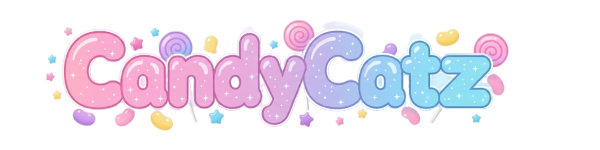
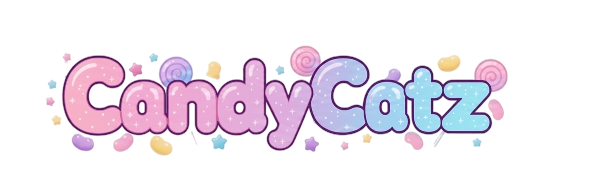
added new design suggestions

diff --git a/src/components/carousel.ts b/src/components/carousel.ts
@@ -18,12 +18,12 @@ export const renderCarousel = function () {
       </div>
       <button class="carousel-control-prev" type="button" data-bs-target="#carouselExampleAutoplaying"
         data-bs-slide="prev">
-        <span class="carousel-control-prev-icon" aria-hidden="true"></span>
+        <span aria-hidden="true"></span>
         <span class="visually-hidden">Previous</span>
       </button>
       <button class="carousel-control-next" type="button" data-bs-target="#carouselExampleAutoplaying"
         data-bs-slide="next">
-        <span class="carousel-control-next-icon" aria-hidden="true"></span>
+        <span aria-hidden="true"></span>
         <span class="visually-hidden">Next</span>
       </button>
     </div>`;

diff --git a/src/assets/scss/app.scss b/src/assets/scss/app.scss
@@ -3,7 +3,6 @@ $bg: #FFFCEF;
 $card-body: #FFFDF5;
 $btn-candy-pink: #f472b6;
 $btn-candy-purple: #c084fc;
-$navbar-bg: #f4e6ff;
 $accent: #F38CB9;
 $accent-light: #ffa1ec;
 $pink: #ff69b4;
@@ -25,7 +24,7 @@ $button-font: "Jersey 15", sans-serif;
 
 
 body {
-    padding-top: 105px;
+    padding-top: 75px;
     box-sizing: border-box;
     font-family: "Poppins", sans-serif;
     background-color: $bg;
@@ -72,8 +71,9 @@ h5 {
 }
 }
 
-.navbar {
-  background: $navbar-bg;
+.navbar-grad {
+  background: linear-gradient(90deg, #ffb3d9 0%, #ffebb3 30%,#a3dcff 100%);
+  border-bottom-left-radius: 30px;
 }
 
 .outOfStock {

diff --git a/src/components/navbar.ts b/src/components/navbar.ts
@@ -4,7 +4,7 @@ export const renderNavbar = function () {
   navbarEl.innerHTML = `<div class="container-fluid">
           <a class="navbar-brand" href="/index.html">
             <img
-              src="/src/assets/img/candyCatz2.png"
+              src="/src/assets/img/candyCatz5.png"
               width="300px"
               class="d-inline-block align-top"
               alt="CandyCatz logo"

diff --git a/index.html b/index.html
@@ -23,7 +23,7 @@
 <body>
   <header>
     <!-- Navbar -->
-    <nav class="navbar navbar-expand-lg bg-body-tertiary fixed-top">
+    <nav class="navbar navbar-expand-lg navbar-grad bg-body-tertiary fixed-top">
     </nav>
   </header>
   <main class="container-fluid">
